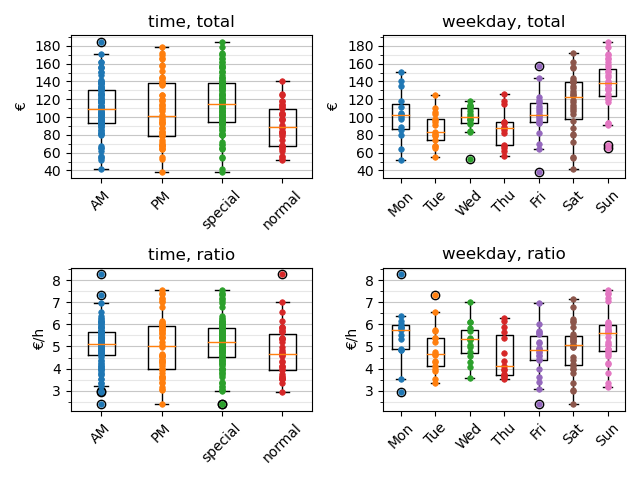
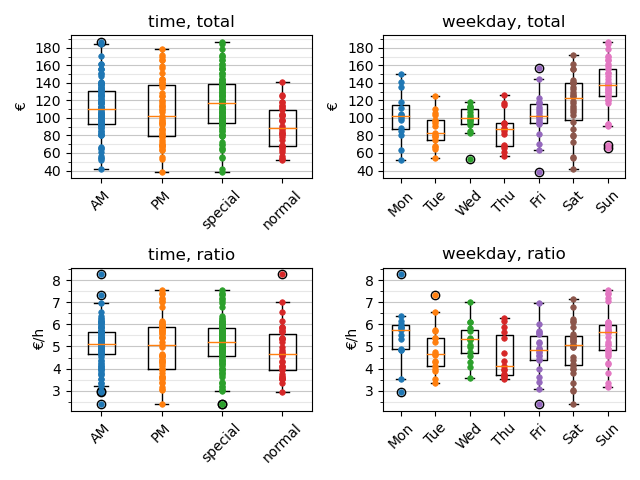
update plot

diff --git a/README.md b/README.md
@@ -1,21 +1,21 @@
 # Statistic  
 Holiday: Holiday in Germany NRW and Friday till Sunday  
 ## Overview  
-total: 108.985 +/- 30.852  
-ratio:   5.050 +/-  1.098  
-bar:    44.663 +/- 20.417  
-card:   56.980 +/- 27.061  
+total: 109.624 +/- 31.324  
+ratio:   5.061 +/-  1.096  
+bar:    44.833 +/- 20.336  
+card:   57.545 +/- 27.538  
   
   
 ### Top three: total  
 &nbsp;|total|ratio|timestamp
 ---|---|---|---
-1"|184.50€|6.099€/h|13.08.2023 Sun AM
+1"|186.83€|6.126€/h|03.03.2024 Sun AM
 &nbsp;|&nbsp;|&nbsp;|holiday -> False
-2"|178.60€|7.216€/h|22.10.2023 Sun PM
+2"|184.50€|6.099€/h|13.08.2023 Sun AM
 &nbsp;|&nbsp;|&nbsp;|holiday -> False
-3"|171.88€|6.807€/h|14.10.2023 Sat PM
-&nbsp;|&nbsp;|&nbsp;|holiday -> Herbstferien
+3"|178.60€|7.216€/h|22.10.2023 Sun PM
+&nbsp;|&nbsp;|&nbsp;|holiday -> False
   
   
 ### Top three: ratio  
@@ -30,17 +30,17 @@ card:   56.980 +/- 27.061
   
   
 ### AM  
-total: 110.284 +/- 27.957  
-ratio:   5.056 +/-  0.968  
+total: 111.090 +/- 28.886  
+ratio:   5.067 +/-  0.969  
   
 ### PM  
-total: 106.804 +/- 35.072  
-ratio:   5.040 +/-  1.289  
+total: 107.180 +/- 34.877  
+ratio:   5.052 +/-  1.280  
   
   
 ### Holidays with weekends (Fri - Sun)  
-total: 115.552 +/- 30.448  
-ratio:   5.131 +/-  1.077  
+total: 116.289 +/- 30.923  
+ratio:   5.145 +/-  1.073  
   
 ### Normal days  
 total:  89.628 +/- 22.870  
@@ -72,19 +72,19 @@ total: 115.684 +/- 32.474
 ratio:   4.908 +/-  1.108  
   
 Sunday  
-total: 135.490 +/- 27.793  
-ratio:   5.393 +/-  1.114  
+total: 136.682 +/- 28.319  
+ratio:   5.421 +/-  1.091  
   
   
 ### Frequency  
-total: 150, AM: 94, PM: 56  
-██████████ 15, 10.0%  
-███████████▎ 17, 11.3%  
-██████████▋ 16, 10.7%  
-██████████ 15, 10.0%  
-██████████████▋ 22, 14.7%  
-████████████████████ 30, 20.0%  
-███████████████████████▎ 35, 23.3%  
+total: 152, AM: 95, PM: 57  
+█████████▊ 15, 9.9%  
+███████████▏ 17, 11.2%  
+██████████▌ 16, 10.5%  
+█████████▊ 15, 9.9%  
+██████████████▍ 22, 14.5%  
+███████████████████▋ 30, 19.7%  
+████████████████████████▎ 37, 24.3%  
   
   
 ## Plot  
